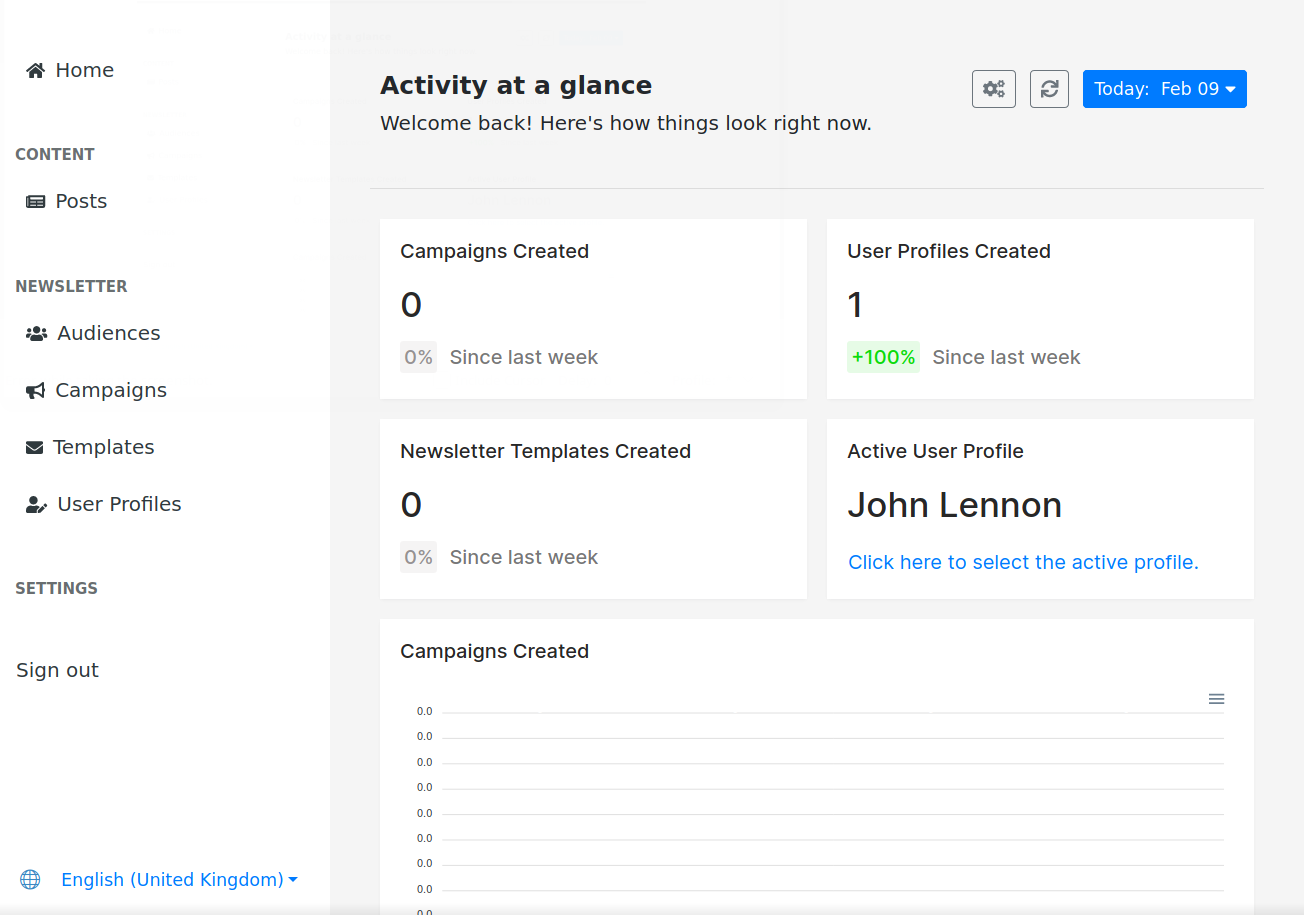
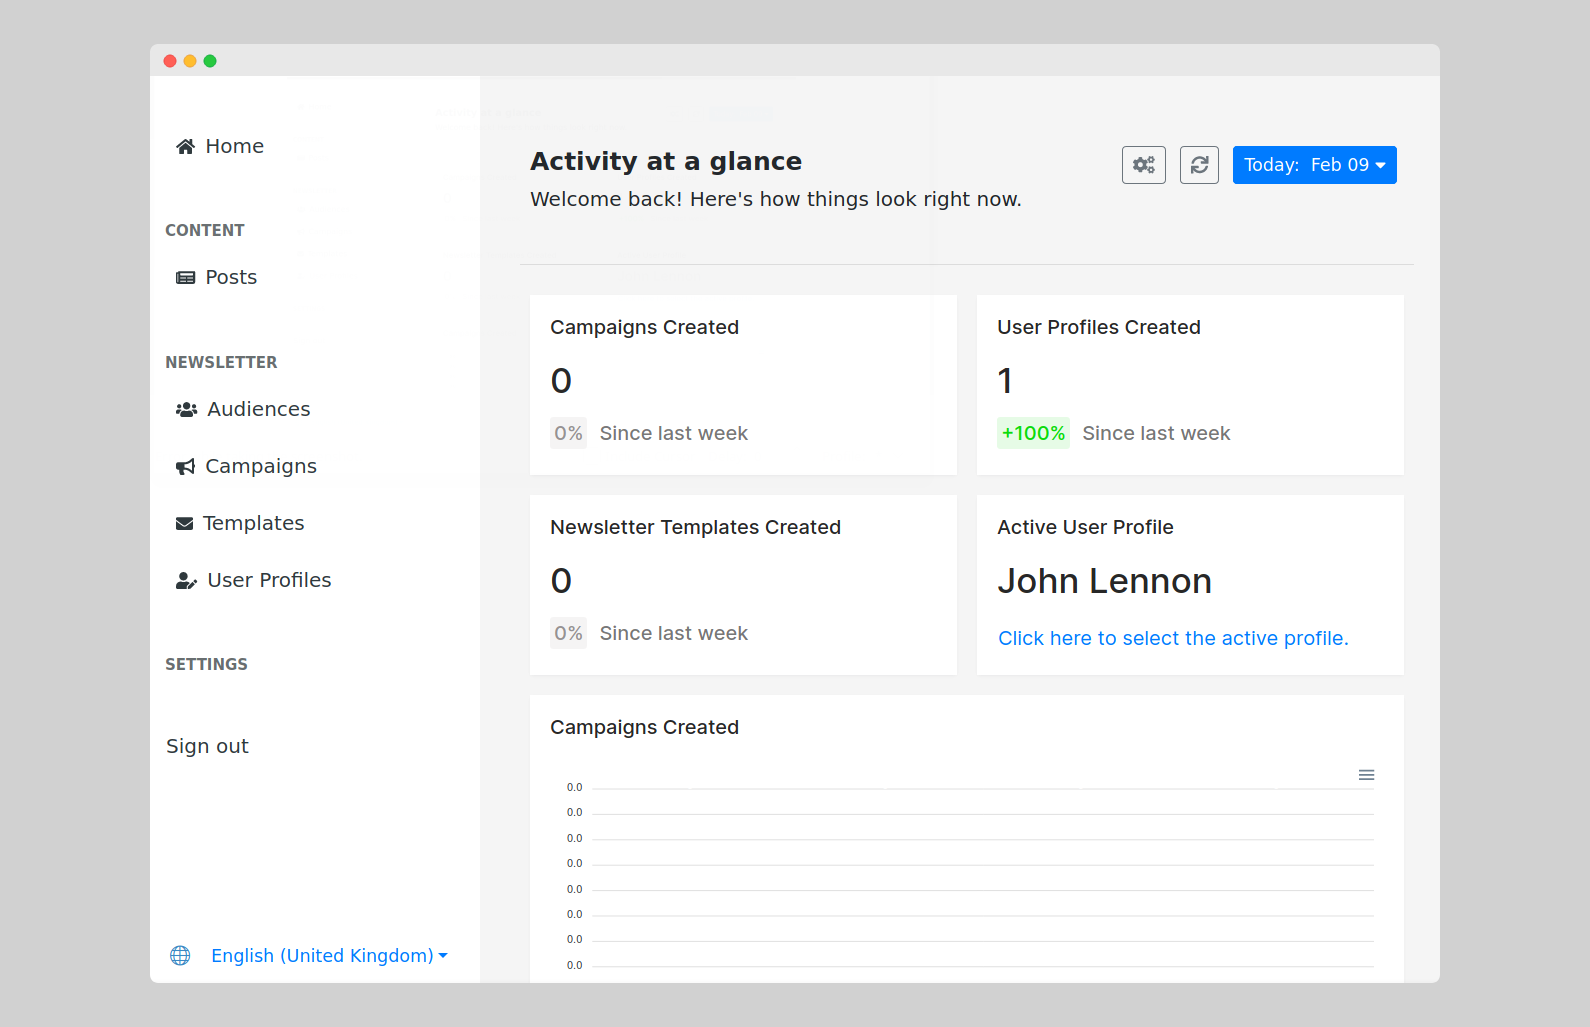
Update screenshot in README.md, service info in ARCHITECTURE.md

diff --git a/ARCHITECTURE.md b/ARCHITECTURE.md
@@ -7,6 +7,13 @@ an issue ticket and this file will be updated based on your filing.
 
 - [Architecture of LifeCMS](#architecture-of-lifecms)
 - [Directory Structure](#directory-structure)
+- [EventBus](#eventbus)
+- [Services](#services)
+  - [ContentCreation](#contentcreation)
+  - [Identity](#identity)
+  - [Email](#email)
+- [Web](#web)
+  - [WebSPA](#webspa)
 
 # Directory Structure
 
@@ -21,3 +28,79 @@ an issue ticket and this file will be updated based on your filing.
 | src/Service/Email            | The microservice responsible for email dispatch and delivery.                             |
 | src/Services/Identity        | The microservice that operates an an OpenID Connect-compliant identity management server. |
 | src/Web/WebSPA               | The main front-end application for user interaction.                                      |
+
+# EventBus
+
+[...]
+
+# Services
+
+## ContentCreation
+
+LifeCMS provides an API for various resources of user-generated content to be
+created, modified and updated. These resources enable users to manage audiences,
+JSON-based templates and other data that pertains to operation of the service.
+
+ContentCreation is architected with a Domain-Driven Design style, the project is
+comprised of multiple tiers which house discrete segments of the project's
+functionality. 
+
+Business logic is stored in the ContentCreation.Domain project, where each main
+resource inherits from IAggregateRoot, a single discrete unit that the project
+operates on. 
+
+Classes and functionality required to provide data access and persistence are
+found in the ContentCreation.Infrastructure, writing aggregates to disk and
+dispatching messages to the EventBus.
+
+The interactable API is found in ContentCreation.API, an ASP.NET Core WebAPI
+used to serve data to external services and users. CQRS is employed to leverage
+the architecture benefits of separate commands and queries, these classes are
+seen in the Application directory of the ContentCreation.API project.
+
+## Identity
+
+LifeCMS provides an OpenID Connect compliant authentication server, in the form
+of the Identity project. This server enables users to register, login and manage
+their authentication options as well as providing Single-Sign On (SSO) for
+third-party services, such as Azure Active Directory and Google Accounts.
+
+The project is comprised of multiple tiers which house discrete segments of the
+project's functionality. 
+
+The project relies on IdentityServer4 to provide the framework for the OpenID
+Connect implementation.
+
+Classes and functionality required to provide data access and persistence are
+found in the ContentCreation.Infrastructure, writing user authentication models
+to disk and dispatching messages to the EventBus.
+
+The interactable API is found in ContentCreation.API, an ASP.NET Core project
+used to serve front-end experiences to external services and users. The project 
+has a separate ReactJS client-facing application embedded into the project for
+powering the UI, found in ClientApp/.
+
+## Email
+
+A newsletter-editing application obviously depends on its reliability and
+security of its email distribution system, and so, LifeCMS has a microservice
+project designed to support the reliable delivery of all email messages sent 
+within the system.
+
+The project is comprised of multiple tiers which house discrete segments of the
+project's functionality.
+
+Business logic is stored in the Email.Domain project.
+
+Classes and functionality required to provide data access and persistence are
+found in the Email.Infrastructure, writing aggregates to disk and dispatching messages to the EventBus.
+
+The Email.API project contains a RabbitMQ persistent connection worker, that
+listens for events raised by internal services and processes the messages that
+it has subscribed to. 
+
+# Web
+
+## WebSPA
+
+[...]

diff --git a/README.md b/README.md
@@ -18,7 +18,6 @@ LifeCMS
 ](https://hub.docker.com/repository/docker/lifecms/web-spa)
 
 <img
-width="75%"
 src="docs/screenshots/dashboard-screenshot.png"
 alt="screenshot of the lifecms dashboard">
 
